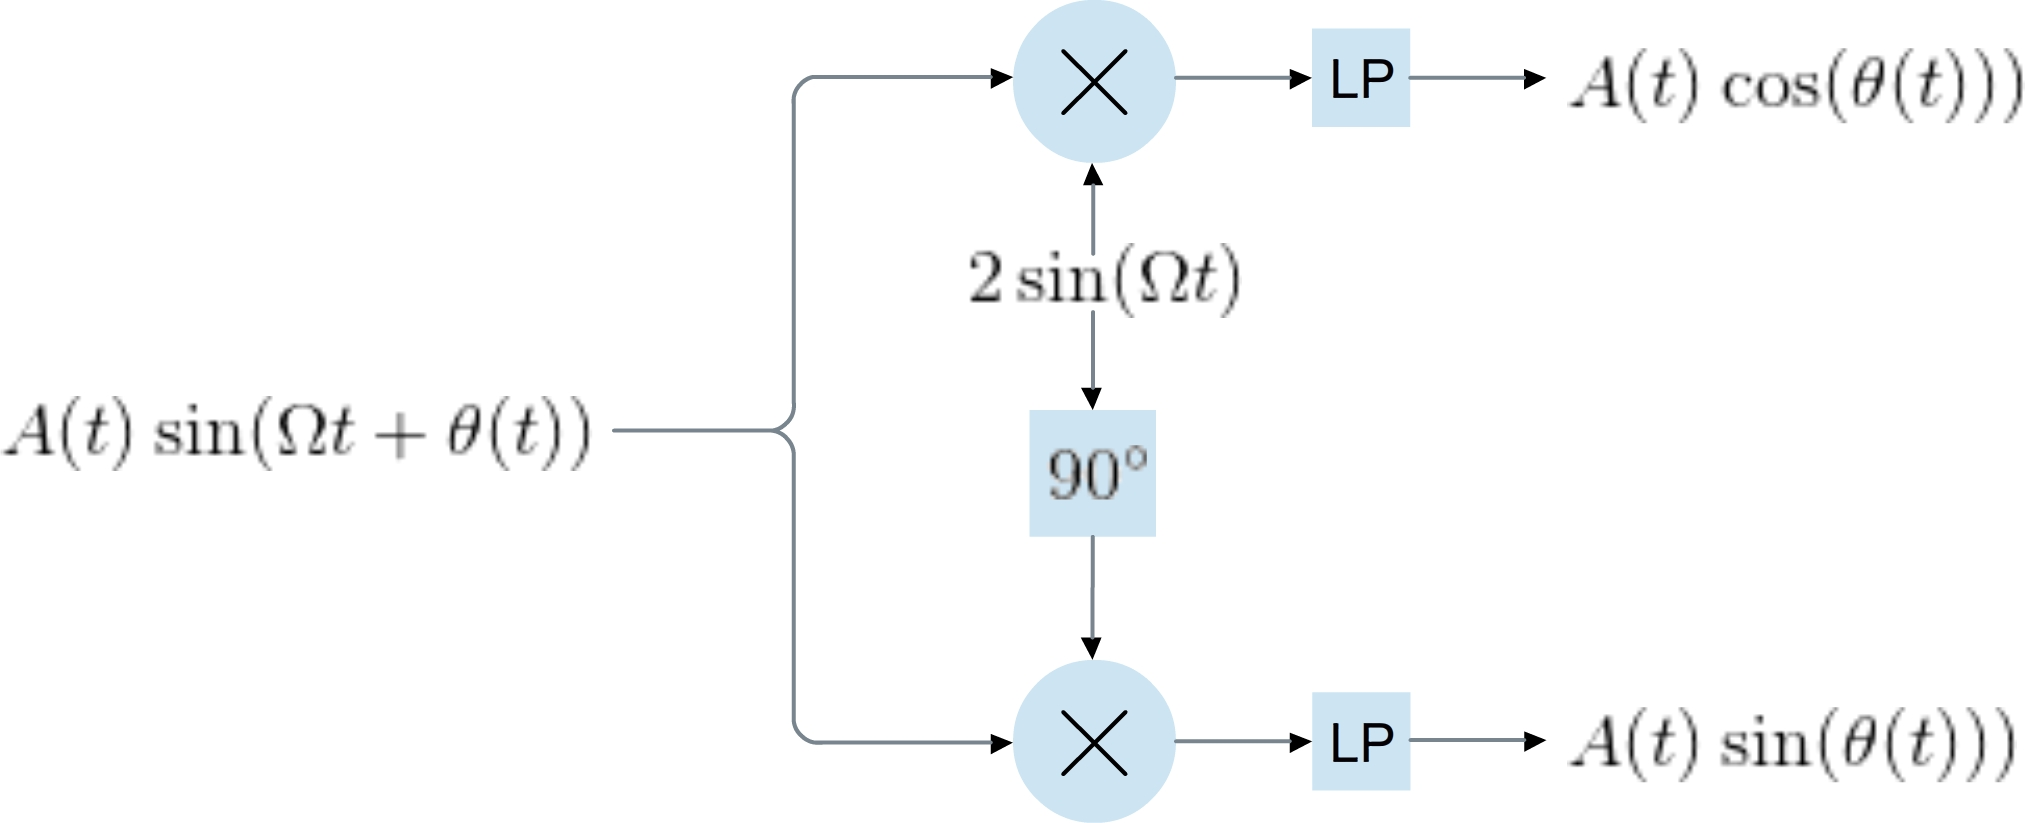
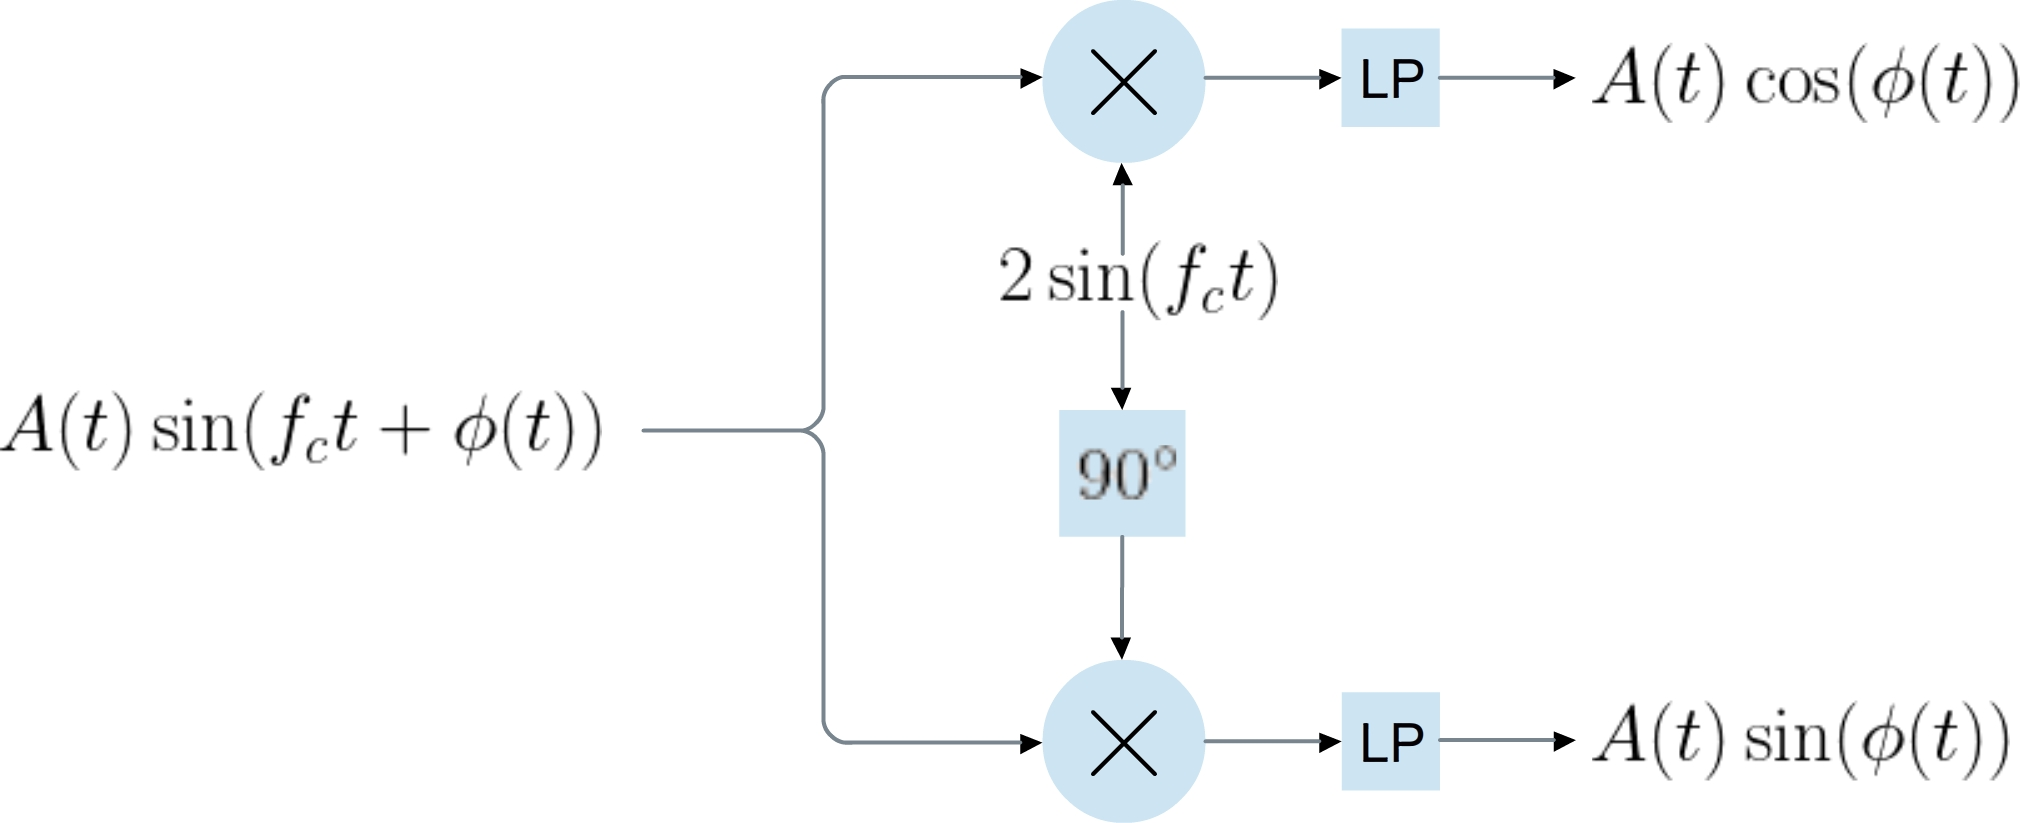
Notation in IQ appendix

diff --git a/feature_selection.tex b/feature_selection.tex
@@ -246,7 +246,7 @@ Before performing any feature processing, the data is downsampled by a downsampl
 	r_{1,D}(d, t) = r_{1}(50+dD,t), 
 	\quad \text{and} \quad r_{2,D}(d,t) = r_{2}(50+dD,t)
 \end{equation}
-defined only for $d=0,...,13$. With this definition, the downsampled signal consists of 14 evenly spaced range indices from 50 to 310, corresponding to ranges 9.4 to 21.88 cm. Thus, the resulting datasquare matrix, $\mathbf{D}\in \mathbb{C}^{N\times 28}$, where $N$ is the number of samples. There are 28 columns as the readings from the two sensors are concatenated. 
+defined only for $d=0,...,13$. With this definition, the downsampled signal consists of 14 evenly spaced range indices from 50 to 310, corresponding to ranges 9.4 to 21.88 cm. Thus, the resulting matrix is a member of $\mathbb{C}^{N\times 28}$, where $N$ is the number of samples. There are 28 columns as the readings from the two sensors are concatenated. 
 
 In above section, four different feature extraction methods were described - the average signal shape, the autocovariance in range and energy, as well as the Fourier transform. The methods each generate a number of features. However, we are not limited to feed our model with features taken from a single one of the methods. In table \ref{tab:feat}, three possible configurations of features are chosen. Each of these combinations was tested in a simple support vector machine classifier (\gls{svm}, described in chapter 5), to evaluate which was the most efficient. The first one, which simply involves the averaged sweep envelope, requires much fewer features than the other two combinations - simply 28 positive real numbers. But looking at its performance, these features are not enough to reach the accuracy attained in the other two cases. By instead selecting autocovariances as features the accuracy increases by 4 percentage points. Here we also include the absolute values as features, as this information is lost when subtracting the mean during the computation of the autocovariances. This configuration generates a feature vector with 174 elements, as seen in figure \ref{fig:feat_fig}. 28 features come from the absolute values, 6 features come from six steps in the energy autocovariance. The majority of the features, 140 to be exact, come from the autocovariance in range. For each of the 28 range bins, there is one real-valued feature representing variance, followed by two complex autocovariances for each range bin. This should give us $28+2\cdot 28=84$ features, but as the real- and imaginary parts of complex numbers are split up in two features, we obtain $28+2\cdot2\cdot 28=140$ features. The total number of features therefore becomes $28+6+140=174$.
 

diff --git a/appendices.tex b/appendices.tex
@@ -21,14 +21,14 @@ IQ demodulation thus aims to extract the information bearing part of $x(t)$ foun
 \end{equation}
 yielding one baseband sinusoid and one sinusoid at the double carrier frequency. 
 
-The next step in the demodulation scheme is to low pass filter to get rid of the undesired high frequency term term in \eqref{eq:split} leaving only $A(t)\cos(\theta(t))$. This constitutes the \emph{In-phase} channel $I(t)$.
+The next step in the demodulation scheme is to low pass filter to get rid of the undesired high frequency term term in \eqref{eq:split} leaving only $A(t)\cos(\phi(t))$. This constitutes the \emph{In-phase} channel $I(t)$.
 
 	Similarly, in the bottom channel in figure \ref{fig:iq_demod}, $x(t)$ is multiplied by a signal of the same carrier frequency. However, this time, the signal is shifted $90^\circ$ in phase\footnote{This shift is technically a \emph{Hilbert transform}, as the sinusoid is shifted by $\pi/2$.}. We can rewrite this product as
 \begin{equation}
 	 A(t)\sin(f_c t+\phi(t))\cdot 2\cos(f_c t) = 
 \end{equation}
 \begin{equation}\label{eq:split2}
- 	 A(t)\sin(\theta(t))+A(t)\sin(2f_c t+\phi(t)).
+ 	 A(t)\sin(\phi(t))+A(t)\sin(2f_c t+\phi(t)).
 \end{equation}
 
 After low pass filtering we obtain $A(t)\sin(\phi(t))$ which we define as the \emph{Quadrature} channel $Q(t)$. Finally, by interpreting $I(t)$ and $Q(t)$ channels as the real- and imaginary parts of a complex number, respectively, we obtain our \gls{iq} data as
